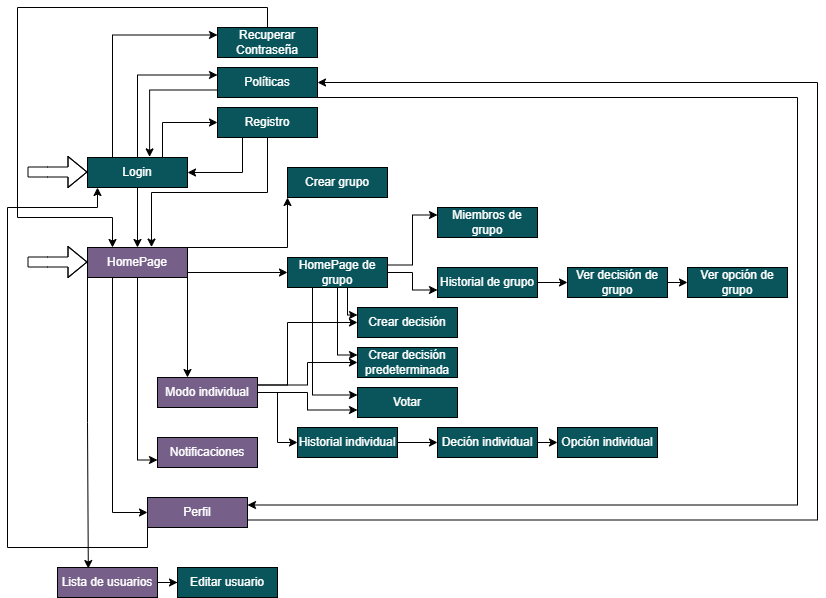
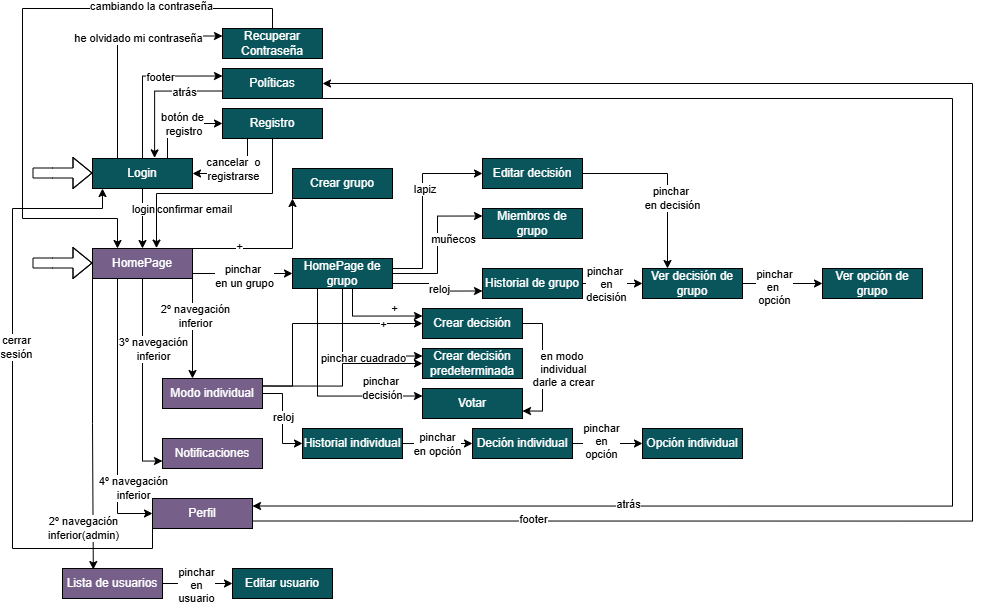
v6

Changed region(s): [[0.0, 0.0, 0.9988, 1.0], [0.0, 0.5418, 0.0303, 0.602]]

diff --git a/capitulos/07_Implementacion.tex b/capitulos/07_Implementacion.tex
@@ -1,0 +1,34 @@
+\chapter{Implementación}
+
+\section{Herramientas}
+
+En esta sección se describen las distintas herramientas empleadas durante el desarrollo del proyecto, indicando la función que desempeña cada una de ellas en las distintas fases de creación e implementación de la aplicación.
+
+\begin{itemize}
+    \item \textbf{Visual Studio Code:} Entorno de desarrollo integrado \textit{(IDE)} utilizado para la implementación del Frontend de la aplicación.
+    \item \textbf{Android Studio:} Herramienta empleada para la ejecución y prueba de la aplicación en emuladores y dispositivos Android, permitiendo visualizar los cambios realizados durante el desarrollo.
+    \item \textbf{Supabase:} Plataforma Backend as a Service \textit{(BaaS)} utilizada como backend de la aplicación, proporcionando servicios de base de datos, autenticación y almacenamiento.
+    \item \textbf{Jira:} Herramienta de gestión de proyectos utilizada para la planificación y organización de los distintos sprints, facilitando la distribución y seguimiento de las tareas.
+    \item \textbf{Github:} Plataforma de control de versiones empleada para alojar el \href{https://github.com/ntsec7/TFG}{código fuente del proyecto} y gestionar su evolución mediante un repositorio.
+    \item \textbf{Google Drive:} Servicio de almacenamiento en la nube utilizado en la generación de los distintos diagramas representados en el presente documento.
+    \item \textbf{Overleaf:} Plataforma basada en \LaTeX{} utilizada para la redacción y edición de la presente memoria.
+    \item \textbf{Figma:} Herramienta de diseño empleada en la elaboración de los diagramas de interfaz de usuario incluidos en el documento.
+    \item \textbf{Gmail:} Servicio de correo electrónico utilizado para el envío de mensajes de verificación de las cuentas registradas en la aplicación y para la confirmación de los cambios de contraseña.
+\end{itemize}    
+
+\section{Explicación de la implementación}
+
+El proceso más importante e interesante de la aplicación es la toma de decisiones. Para la creación de una decisión se utilizan dos modelos auxiliares, \textit{DecisionDraft} y \textit{OptionDraft}, que contienen los mismos campos que los modelos \textit{Decision} y \textit{Option} respectivamente, pero sin los identificadores asociados. Estos modelos tienen como finalidad almacenar los datos temporalmente entre pantallas. En \textit{DecisionDraft} se almacena además la lista de \textit{OptionDraft} creadas. Una vez finalizado el diseño de la decisión, el usuario puede optar por dos caminos: crear la decisión directamente para ponerla en votación, o iniciar el proceso de sugerencia de opciones. Dependiendo de la elección, tal como se muestra en la Figura~\ref{fig:diugrouphomepage}, la decisión aparecerá en un apartado u otro de la pantalla. \\
+
+Una decisión atraviesa 4 estados a lo largo de su ciclo de vida, tal como podemos observar en la Figura~\ref{fig:ciclodecision}. Durante la creación se encuentra en el estado \textit{Draft}; posteriormente pasa a \textit{Option} (estado que puede omitirse); a continuación, a \textit{Vote}; y finalmente a \textit{Finish}. En las transiciones de \textit{Option} a \textit{Vote} y de \textit{Vote} a \textit{Finish} es posible especificar un tiempo máximo tras el cual el cambio de estado se produce automáticamente. Para ello se ha implementado una \textit{Edge Function} —que permite encapsular operaciones que requieren ejecutarse en el servidor— la cual se ejecuta una vez por minuto y comprueba si la hora de finalización del estado actual es menor o igual que la hora actual, actualizando el estado de la decisión cuando se cumple dicha condición. \\
+
+    \begin{figure}[ht]
+        \centering
+        \includegraphics[width=0.7\textwidth]{figuras/EstadosDecision.png}
+        \caption{Ciclo de vida de una decisión }
+        \label{fig:ciclodecision}
+    \end{figure}
+
+Asimismo, cuando una decisión se encuentra en el estado \textit{Vote}, se muestra una pantalla de votación distinta en función de su tipo: \textit{simple}, \textit{ranking} o \textit{roulette}. Una vez que todos los miembros participantes han registrado su voto, la decisión pasa automáticamente al estado \textit{Finish}, aunque no haya expirado el tiempo destinado a la votación. Esto es posible gracias a un \texttt{trigger} que se dispara al registrarse cada nueva votación. Las decisiones de tipo \textit{roulette} no tienen un tiempo máximo entre los estados \textit{Vote} y \textit{Finish}, ya que únicamente requieren que el creador de la decisión acceda a la pantalla de votación. \\
+
+Para que todo lo anterior funcione de forma ordenada y coherente, es necesario que los cambios se reflejen en tiempo real para todos los usuarios. Con este fin, se activa la opción \texttt{Realtime} en las tablas correspondientes de \textit{Supabase} y se obtiene el flujo de datos mediante \texttt{Riverpod} y \texttt{Stream}. \texttt{Riverpod} es una librería que desacopla la lógica de negocio de la interfaz, facilitando una arquitectura reactiva en la que los cambios de estado se propagen automáticamente a los componentes de la UI. Por su parte, \texttt{Stream} abre un canal de datos continuo y sincronizado con la base de datos.

diff --git a/capitulos/06_Diseno.tex b/capitulos/06_Diseno.tex
@@ -754,8 +754,6 @@ Por útimo, la Figura~\ref{fig:dsvote} muestra el proceso de voto. Lo especial d
     
     La aplicación se encuentra disponible en modo claro y oscuro, escogíendose uno u otro según la configuración del dispositivo. Los bocetos se han desarrollado en tema claro, habiéndose adjuntado uno adicional en el login con tema oscuro para que se pueda apreciar la gama de colores a usar. \\
 
-    en las Figuras \ref{fig:diupantallasiniciales}, \ref{fig:diupantallasgrupos}, \ref{fig:diugrouphistory}, \ref{fig:diusinglehistorygroup}, \ref{fig:diunotifications}, \ref{fig:diuperfil}, \ref{fig:diudecision}, \ref{fig:diuvotes}, \ref{fig:diudecisionwatch} y \ref{fig:diuadmin}
-
     En la Figura~\ref{fig:diupantallasiniciales} podemos observar las pantallas de inicio de sesión, registro, confirmación de email, cambio de contraseña y avisos legales. Desde la pantalla de inicio de sesión, se podrá acceder a cualquiera de las otras cuatro. 
 
     Es necesario confirmar de email después del registro de la cuenta para poder iniciar sesión. La pantalla de recuperar contraseña es accedida automaticaménte desde un enlace enviado al email después de haber pulsado en \textit{He olvidado mi contraseña} en la pantalla de Login. Por su parte, la pantalla de Aviso Legal sigue la misma plantilla que las de Política de privacidad y Términos y condiciones. \\
@@ -1101,7 +1099,7 @@ Por útimo, la Figura~\ref{fig:dsvote} muestra el proceso de voto. Lo especial d
   
 \section{Diagrama de navegabilidad}
 
-En la siguiente Figura~\ref{fig:diagramanavegabilidad} se expone el diagrama que representa la navegabilidad dentro de la aplicación. \\
+En la siguiente Figura~\ref{fig:diagramanavegabilidad} se expone el diagrama que representa la navegabilidad dentro de la aplicación, indicando mediante las flechas la forma de pasar de una pantalla a otra. \\
 
 Las flechas grandes indican las posibles pantallas que pueden abrirse al iniciar la aplicación. De tener una sesión abierta, se iniciará en la \textit{HomePage}, si no en \textit{Login}. \\
 
@@ -1112,7 +1110,7 @@ Dependiendo del tipo de usuario, se podrá acceder a distintas pantallas violeta
 
     \begin{figure}[ht]
         \centering
-        \includegraphics[width=0.7\textwidth]{figuras/diagramas/Navegabilidad.png}
+        \includegraphics[width=\textwidth]{figuras/diagramas/Navegabilidad.png}
         \caption{Diagrama de la navegabilidad del sistema }
         \label{fig:diagramanavegabilidad}
     \end{figure}

diff --git a/proyecto.tex b/proyecto.tex
@@ -222,8 +222,7 @@ pdfproducer = {pdflatex}
 \input{capitulos/04_Planificacion}
 \input{capitulos/05_Analisis}
 \input{capitulos/06_Diseno}
-%
-%\input{capitulos/06_Implementacion}
+\input{capitulos/07_Implementacion}
 %
 %\input{capitulos/07_Pruebas}
 %